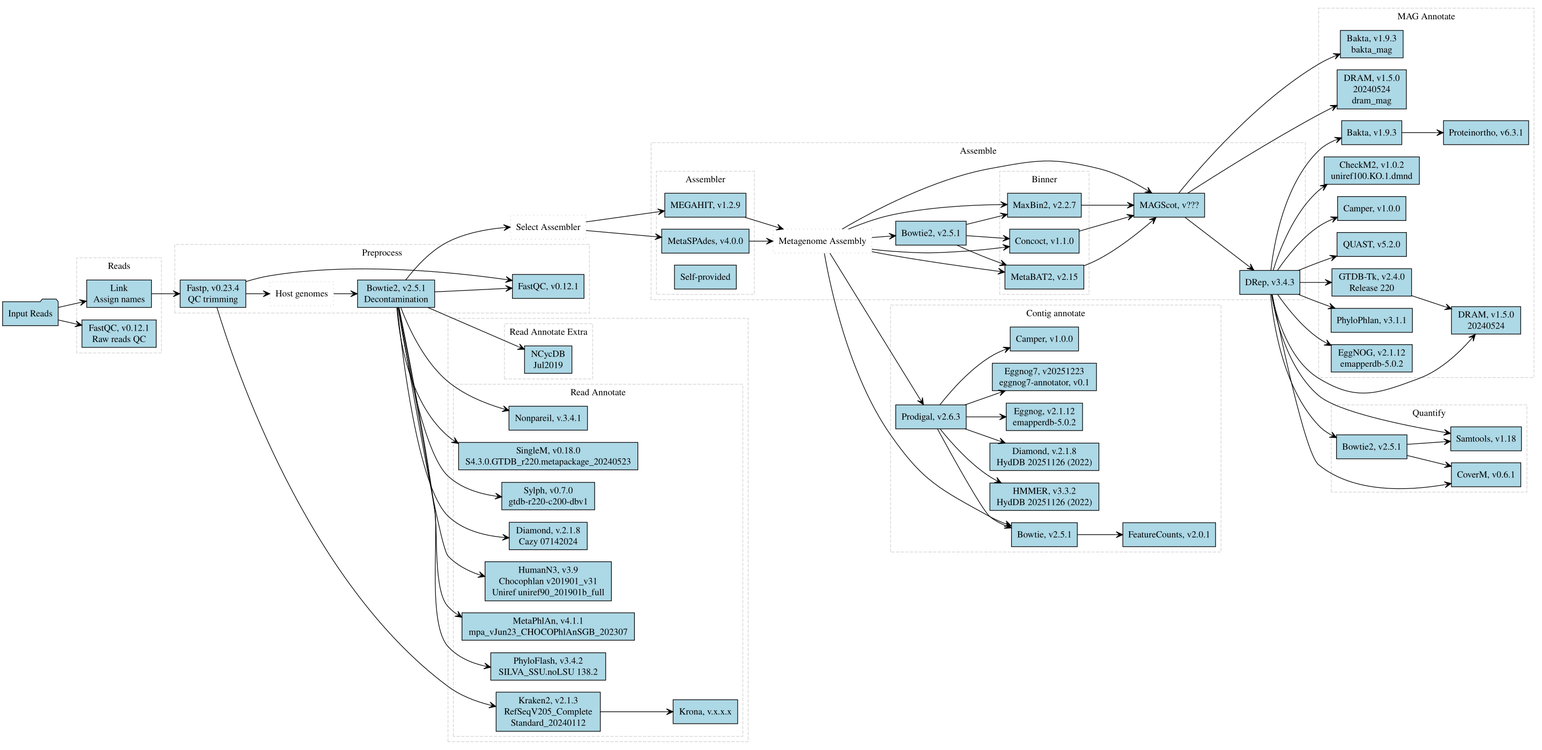
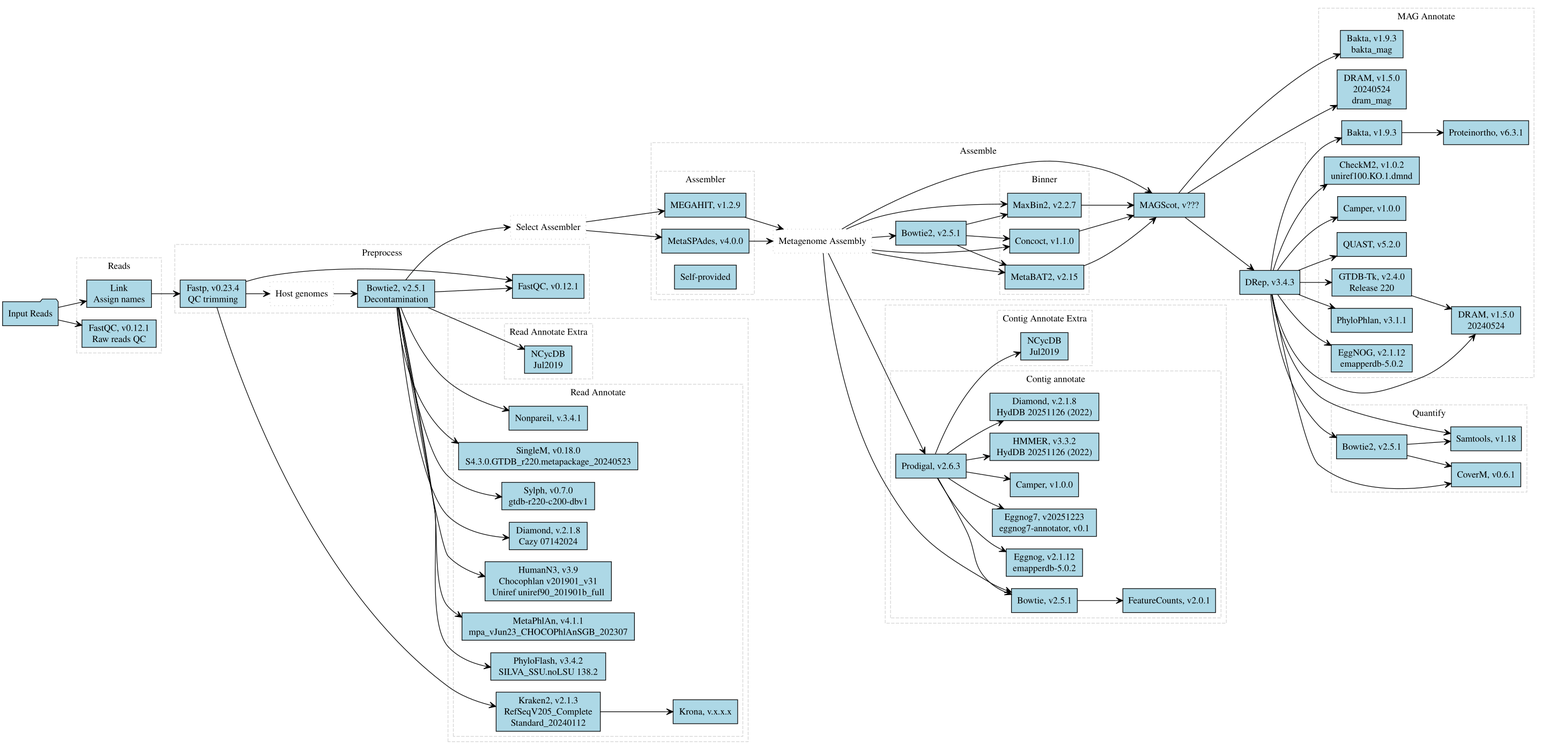
NCyc for contig annotate

Changed region(s): [[0.557, 0.3996, 0.8046, 0.8299], [0.557, 0.2766, 0.588, 0.3074], [0.5261, 0.3688, 0.557, 0.3996]]

diff --git a/pipeline_diagram.html b/pipeline_diagram.html
@@ -54,11 +54,20 @@
 <text text-anchor="middle" x="174.8994" y="-718.4" font-family="Times,serif" font-size="14.00" fill="#000000">Reads</text>
 </g>
 <g id="clust10" class="cluster">
-<title>cluster_contig_annotate</title>
-<polygon fill="none" stroke="#d3d3d3" stroke-dasharray="5,2" points="1333.7794,-293 1333.7794,-664 1830.2388,-664 1830.2388,-293 1333.7794,-293"/>
-<text text-anchor="middle" x="1582.0091" y="-647.4" font-family="Times,serif" font-size="14.00" fill="#000000">Contig annotate</text>
+<title>cluster_contig_annot_all</title>
+<polygon fill="none" stroke="#d3d3d3" stroke-dasharray="5,2" points="1325.7794,-186 1325.7794,-664 1838.2388,-664 1838.2388,-186 1325.7794,-186"/>
 </g>
 <g id="clust11" class="cluster">
+<title>cluster_contig_annotate</title>
+<polygon fill="none" stroke="#d3d3d3" stroke-dasharray="5,2" points="1333.7794,-194 1333.7794,-565 1830.2388,-565 1830.2388,-194 1333.7794,-194"/>
+<text text-anchor="middle" x="1582.0091" y="-548.4" font-family="Times,serif" font-size="14.00" fill="#000000">Contig annotate</text>
+</g>
+<g id="clust12" class="cluster">
+<title>cluster_contig_annot_extra</title>
+<polygon fill="none" stroke="#d3d3d3" stroke-dasharray="5,2" points="1494.1034,-573 1494.1034,-656 1636.7044,-656 1636.7044,-573 1494.1034,-573"/>
+<text text-anchor="middle" x="1565.4039" y="-639.4" font-family="Times,serif" font-size="14.00" fill="#000000">Contig Annotate Extra</text>
+</g>
+<g id="clust13" class="cluster">
 <title>cluster_annotate</title>
 <polygon fill="none" stroke="#d3d3d3" stroke-dasharray="5,2" points="1976.8966,-555 1976.8966,-1110 2300.417,-1110 2300.417,-555 1976.8966,-555"/>
 <text text-anchor="middle" x="2138.6568" y="-1093.4" font-family="Times,serif" font-size="14.00" fill="#000000">MAG Annotate</text>
@@ -232,7 +241,7 @@
 <polygon fill="#000000" stroke="#000000" points="783.9478,-597.4244 776.5608,-605.5289 779.3598,-599.412 774.7719,-601.3997 774.7719,-601.3997 774.7719,-601.3997 779.3598,-599.412 772.983,-597.2705 783.9478,-597.4244 783.9478,-597.4244"/>
 </g>
 <!-- ass_assembler_rep -->
-<g id="node49" class="node">
+<g id="node50" class="node">
 <title>ass_assembler_rep</title>
 <polygon fill="none" stroke="#c0c0c0" stroke-dasharray="1,5" points="876.1262,-799 762.9758,-799 762.9758,-763 876.1262,-763 876.1262,-799"/>
 <text text-anchor="middle" x="819.551" y="-776.8" font-family="Times,serif" font-size="14.00" fill="#000000">Select Assembler</text>
@@ -264,7 +273,7 @@
 <polygon fill="#000000" stroke="#000000" points="740.9677,-60.8794 732.2897,-67.5833 736.105,-62.0432 731.2423,-63.2069 731.2423,-63.2069 731.2423,-63.2069 736.105,-62.0432 730.1949,-58.8305 740.9677,-60.8794 740.9677,-60.8794"/>
 </g>
 <!-- pre_host -->
-<g id="node48" class="node">
+<g id="node49" class="node">
 <title>pre_host</title>
 <polygon fill="none" stroke="#c0c0c0" stroke-dasharray="1,5" points="496.9293,-699 401.5161,-699 401.5161,-663 496.9293,-663 496.9293,-699"/>
 <text text-anchor="middle" x="449.2227" y="-676.8" font-family="Times,serif" font-size="14.00" fill="#000000">Host genomes</text>
@@ -448,7 +457,7 @@
 <polygon fill="#000000" stroke="#000000" points="2001.5807,-659.147 1993.6347,-666.7043 1996.8627,-660.8026 1992.1447,-662.4582 1992.1447,-662.4582 1992.1447,-662.4582 1996.8627,-660.8026 1990.6547,-658.212 2001.5807,-659.147 2001.5807,-659.147"/>
 </g>
 <!-- quantify_bowtie2 -->
-<g id="node45" class="node">
+<g id="node46" class="node">
 <title>quantify_bowtie2</title>
 <polygon fill="#add8e6" stroke="#000000" points="2109.6016,-469 2003.7218,-469 2003.7218,-433 2109.6016,-433 2109.6016,-469"/>
 <text text-anchor="middle" x="2056.6617" y="-446.8" font-family="Times,serif" font-size="14.00" fill="#000000">Bowtie2, v2.5.1</text>
@@ -460,7 +469,7 @@
 <polygon fill="#000000" stroke="#000000" points="2003.7342,-464.7502 1996.8782,-473.3086 1999.2821,-467.0259 1994.83,-469.3017 1994.83,-469.3017 1994.83,-469.3017 1999.2821,-467.0259 1992.7818,-465.2948 2003.7342,-464.7502 2003.7342,-464.7502"/>
 </g>
 <!-- quantify_coverm -->
-<g id="node46" class="node">
+<g id="node47" class="node">
 <title>quantify_coverm</title>
 <polygon fill="#add8e6" stroke="#000000" points="2280.5789,-427 2176.2649,-427 2176.2649,-391 2280.5789,-391 2280.5789,-427"/>
 <text text-anchor="middle" x="2228.4219" y="-404.8" font-family="Times,serif" font-size="14.00" fill="#000000">CoverM, v0.6.1</text>
@@ -472,7 +481,7 @@
 <polygon fill="#000000" stroke="#000000" points="2176.1074,-395.894 2165.4692,-398.5544 2171.1863,-395.0096 2166.2651,-394.1253 2166.2651,-394.1253 2166.2651,-394.1253 2171.1863,-395.0096 2167.061,-389.6962 2176.1074,-395.894 2176.1074,-395.894"/>
 </g>
 <!-- quantify_samtools -->
-<g id="node47" class="node">
+<g id="node48" class="node">
 <title>quantify_samtools</title>
 <polygon fill="#add8e6" stroke="#000000" points="2281.5362,-481 2175.3076,-481 2175.3076,-445 2281.5362,-445 2281.5362,-481"/>
 <text text-anchor="middle" x="2228.4219" y="-458.8" font-family="Times,serif" font-size="14.00" fill="#000000">Samtools, v1.18</text>
@@ -529,7 +538,7 @@
 <text text-anchor="middle" x="1055.6559" y="-809.8" font-family="Times,serif" font-size="14.00" fill="#000000">MEGAHIT, v1.2.9</text>
 </g>
 <!-- ass_assembly -->
-<g id="node50" class="node">
+<g id="node51" class="node">
 <title>ass_assembly</title>
 <polygon fill="none" stroke="#c0c0c0" stroke-dasharray="1,5" points="1305.5679,-778 1157.4151,-778 1157.4151,-742 1305.5679,-742 1305.5679,-778"/>
 <text text-anchor="middle" x="1231.4915" y="-755.8" font-family="Times,serif" font-size="14.00" fill="#000000">Metagenome Assembly</text>
@@ -585,96 +594,109 @@
 <!-- contig_annotate_prodigal -->
 <g id="node37" class="node">
 <title>contig_annotate_prodigal</title>
-<polygon fill="#add8e6" stroke="#000000" points="1447.4388,-514 1341.559,-514 1341.559,-478 1447.4388,-478 1447.4388,-514"/>
-<text text-anchor="middle" x="1394.4989" y="-491.8" font-family="Times,serif" font-size="14.00" fill="#000000">Prodigal, v2.6.3</text>
+<polygon fill="#add8e6" stroke="#000000" points="1447.4388,-440 1341.559,-440 1341.559,-404 1447.4388,-404 1447.4388,-440"/>
+<text text-anchor="middle" x="1394.4989" y="-417.8" font-family="Times,serif" font-size="14.00" fill="#000000">Prodigal, v2.6.3</text>
 </g>
 <!-- contig_annotate_eggnog -->
 <g id="node38" class="node">
 <title>contig_annotate_eggnog</title>
-<polygon fill="#add8e6" stroke="#000000" points="1622.2601,-516.6019 1507.5477,-516.6019 1507.5477,-475.3981 1622.2601,-475.3981 1622.2601,-516.6019"/>
-<text text-anchor="middle" x="1564.9039" y="-500.2" font-family="Times,serif" font-size="14.00" fill="#000000">Eggnog, v2.1.12 </text>
-<text text-anchor="middle" x="1564.9039" y="-483.4" font-family="Times,serif" font-size="14.00" fill="#000000"> emapperdb&#45;5.0.2</text>
+<polygon fill="#add8e6" stroke="#000000" points="1622.2601,-297.6019 1507.5477,-297.6019 1507.5477,-256.3981 1622.2601,-256.3981 1622.2601,-297.6019"/>
+<text text-anchor="middle" x="1564.9039" y="-281.2" font-family="Times,serif" font-size="14.00" fill="#000000">Eggnog, v2.1.12 </text>
+<text text-anchor="middle" x="1564.9039" y="-264.4" font-family="Times,serif" font-size="14.00" fill="#000000"> emapperdb&#45;5.0.2</text>
 </g>
 <!-- contig_annotate_prodigal&#45;&gt;contig_annotate_eggnog -->
 <g id="edge51" class="edge">
 <title>contig_annotate_prodigal&#45;&gt;contig_annotate_eggnog</title>
-<path fill="none" stroke="#000000" d="M1447.482,-496C1463.2592,-496 1480.7648,-496 1497.3392,-496"/>
-<polygon fill="#000000" stroke="#000000" points="1507.515,-496 1497.5151,-500.5001 1502.515,-496 1497.515,-496.0001 1497.515,-496.0001 1497.515,-496.0001 1502.515,-496 1497.515,-491.5001 1507.515,-496 1507.515,-496"/>
+<path fill="none" stroke="#000000" d="M1404.1087,-403.871C1418.2709,-378.7744 1447.0253,-333.5462 1483.2184,-307 1487.9009,-303.5656 1493.0188,-300.4861 1498.3358,-297.7325"/>
+<polygon fill="#000000" stroke="#000000" points="1507.4302,-293.4009 1500.337,-301.7638 1502.916,-295.551 1498.4019,-297.7011 1498.4019,-297.7011 1498.4019,-297.7011 1502.916,-295.551 1496.4668,-293.6384 1507.4302,-293.4009 1507.4302,-293.4009"/>
 </g>
 <!-- contig_annotate_eggnog7 -->
 <g id="node39" class="node">
 <title>contig_annotate_eggnog7</title>
-<polygon fill="#add8e6" stroke="#000000" points="1643.1503,-576.6019 1486.6575,-576.6019 1486.6575,-535.3981 1643.1503,-535.3981 1643.1503,-576.6019"/>
-<text text-anchor="middle" x="1564.9039" y="-560.2" font-family="Times,serif" font-size="14.00" fill="#000000">Eggnog7, v20251223 </text>
-<text text-anchor="middle" x="1564.9039" y="-543.4" font-family="Times,serif" font-size="14.00" fill="#000000"> eggnog7&#45;annotator, v0.1</text>
+<polygon fill="#add8e6" stroke="#000000" points="1643.1503,-357.6019 1486.6575,-357.6019 1486.6575,-316.3981 1643.1503,-316.3981 1643.1503,-357.6019"/>
+<text text-anchor="middle" x="1564.9039" y="-341.2" font-family="Times,serif" font-size="14.00" fill="#000000">Eggnog7, v20251223 </text>
+<text text-anchor="middle" x="1564.9039" y="-324.4" font-family="Times,serif" font-size="14.00" fill="#000000"> eggnog7&#45;annotator, v0.1</text>
 </g>
 <!-- contig_annotate_prodigal&#45;&gt;contig_annotate_eggnog7 -->
 <g id="edge52" class="edge">
 <title>contig_annotate_prodigal&#45;&gt;contig_annotate_eggnog7</title>
-<path fill="none" stroke="#000000" d="M1445.626,-514.002C1461.6065,-519.6287 1479.5017,-525.9297 1496.4726,-531.9052"/>
-<polygon fill="#000000" stroke="#000000" points="1506.3366,-535.3783 1495.4096,-536.3016 1501.6204,-533.7177 1496.9042,-532.0571 1496.9042,-532.0571 1496.9042,-532.0571 1501.6204,-533.7177 1498.3987,-527.8125 1506.3366,-535.3783 1506.3366,-535.3783"/>
+<path fill="none" stroke="#000000" d="M1420.4837,-403.9367C1437.7563,-392.4265 1461.2258,-377.7176 1483.2184,-367 1486.9616,-365.1758 1490.8457,-363.3967 1494.7969,-361.6741"/>
+<polygon fill="#000000" stroke="#000000" points="1504.1036,-357.7625 1496.6284,-365.7857 1499.4942,-359.6998 1494.8848,-361.6372 1494.8848,-361.6372 1494.8848,-361.6372 1499.4942,-359.6998 1493.1411,-357.4887 1504.1036,-357.7625 1504.1036,-357.7625"/>
 </g>
 <!-- contig_annotate_bowtie -->
 <g id="node40" class="node">
 <title>contig_annotate_bowtie</title>
-<polygon fill="#add8e6" stroke="#000000" points="1614.3439,-337 1515.4639,-337 1515.4639,-301 1614.3439,-301 1614.3439,-337"/>
-<text text-anchor="middle" x="1564.9039" y="-314.8" font-family="Times,serif" font-size="14.00" fill="#000000">Bowtie, v2.5.1</text>
+<polygon fill="#add8e6" stroke="#000000" points="1614.3439,-238 1515.4639,-238 1515.4639,-202 1614.3439,-202 1614.3439,-238"/>
+<text text-anchor="middle" x="1564.9039" y="-215.8" font-family="Times,serif" font-size="14.00" fill="#000000">Bowtie, v2.5.1</text>
 </g>
 <!-- contig_annotate_prodigal&#45;&gt;contig_annotate_bowtie -->
 <g id="edge53" class="edge">
 <title>contig_annotate_prodigal&#45;&gt;contig_annotate_bowtie</title>
-<path fill="none" stroke="#000000" d="M1404.3012,-477.8366C1424.8604,-439.9872 1471.5538,-355.3933 1483.2184,-346 1489.9074,-340.6134 1497.7126,-336.2845 1505.7951,-332.8098"/>
-<polygon fill="#000000" stroke="#000000" points="1515.3603,-329.111 1507.6564,-336.9148 1510.6968,-330.9144 1506.0334,-332.7177 1506.0334,-332.7177 1506.0334,-332.7177 1510.6968,-330.9144 1504.4103,-328.5206 1515.3603,-329.111 1515.3603,-329.111"/>
+<path fill="none" stroke="#000000" d="M1405.0171,-403.8123C1415.9651,-384.6638 1433.4085,-353.5343 1447.2184,-326 1464.5169,-291.5101 1454.4975,-272.7662 1483.2184,-247 1489.8422,-241.0576 1497.8072,-236.4188 1506.1303,-232.7986"/>
+<polygon fill="#000000" stroke="#000000" points="1515.6271,-229.1289 1507.9213,-236.9309 1510.9632,-230.9312 1506.2993,-232.7334 1506.2993,-232.7334 1506.2993,-232.7334 1510.9632,-230.9312 1504.6773,-228.5358 1515.6271,-229.1289 1515.6271,-229.1289"/>
 </g>
 <!-- contig_annotate_camper -->
 <g id="node41" class="node">
 <title>contig_annotate_camper</title>
-<polygon fill="#add8e6" stroke="#000000" points="1616.2214,-631 1513.5864,-631 1513.5864,-595 1616.2214,-595 1616.2214,-631"/>
-<text text-anchor="middle" x="1564.9039" y="-608.8" font-family="Times,serif" font-size="14.00" fill="#000000">Camper, v1.0.0</text>
+<polygon fill="#add8e6" stroke="#000000" points="1616.2214,-412 1513.5864,-412 1513.5864,-376 1616.2214,-376 1616.2214,-412"/>
+<text text-anchor="middle" x="1564.9039" y="-389.8" font-family="Times,serif" font-size="14.00" fill="#000000">Camper, v1.0.0</text>
 </g>
 <!-- contig_annotate_prodigal&#45;&gt;contig_annotate_camper -->
 <g id="edge54" class="edge">
 <title>contig_annotate_prodigal&#45;&gt;contig_annotate_camper</title>
-<path fill="none" stroke="#000000" d="M1407.927,-514.0591C1423.8231,-534.2561 1452.0949,-566.6646 1483.2184,-586 1489.5858,-589.9557 1496.596,-593.3981 1503.7524,-596.3765"/>
-<polygon fill="#000000" stroke="#000000" points="1513.5549,-600.1549 1502.6056,-600.7572 1508.8895,-598.3566 1504.2241,-596.5583 1504.2241,-596.5583 1504.2241,-596.5583 1508.8895,-598.3566 1505.8426,-592.3594 1513.5549,-600.1549 1513.5549,-600.1549"/>
+<path fill="none" stroke="#000000" d="M1447.482,-413.2941C1465.288,-410.3683 1485.2956,-407.0808 1503.6814,-404.0597"/>
+<polygon fill="#000000" stroke="#000000" points="1513.7046,-402.4128 1504.5666,-408.4747 1508.7708,-403.2235 1503.8369,-404.0343 1503.8369,-404.0343 1503.8369,-404.0343 1508.7708,-403.2235 1503.1072,-399.5938 1513.7046,-402.4128 1513.7046,-402.4128"/>
 </g>
 <!-- contig_annotate_hmmer -->
 <g id="node42" class="node">
 <title>contig_annotate_hmmer</title>
-<polygon fill="#add8e6" stroke="#000000" points="1646.7753,-396.6019 1483.0325,-396.6019 1483.0325,-355.3981 1646.7753,-355.3981 1646.7753,-396.6019"/>
-<text text-anchor="middle" x="1564.9039" y="-380.2" font-family="Times,serif" font-size="14.00" fill="#000000">HMMER, v3.3.2 </text>
-<text text-anchor="middle" x="1564.9039" y="-363.4" font-family="Times,serif" font-size="14.00" fill="#000000"> HydDB 20251126 (2022)</text>
+<polygon fill="#add8e6" stroke="#000000" points="1646.7753,-471.6019 1483.0325,-471.6019 1483.0325,-430.3981 1646.7753,-430.3981 1646.7753,-471.6019"/>
+<text text-anchor="middle" x="1564.9039" y="-455.2" font-family="Times,serif" font-size="14.00" fill="#000000">HMMER, v3.3.2 </text>
+<text text-anchor="middle" x="1564.9039" y="-438.4" font-family="Times,serif" font-size="14.00" fill="#000000"> HydDB 20251126 (2022)</text>
 </g>
 <!-- contig_annotate_prodigal&#45;&gt;contig_annotate_hmmer -->
 <g id="edge55" class="edge">
 <title>contig_annotate_prodigal&#45;&gt;contig_annotate_hmmer</title>
-<path fill="none" stroke="#000000" d="M1408.3321,-477.7636C1424.3859,-457.7105 1452.6,-425.7235 1483.2184,-406 1485.8022,-404.3356 1488.4912,-402.7463 1491.2523,-401.2306"/>
-<polygon fill="#000000" stroke="#000000" points="1500.2757,-396.6389 1493.4041,-405.1848 1495.8194,-398.9066 1491.3632,-401.1742 1491.3632,-401.1742 1491.3632,-401.1742 1495.8194,-398.9066 1489.3223,-397.1636 1500.2757,-396.6389 1500.2757,-396.6389"/>
+<path fill="none" stroke="#000000" d="M1447.482,-431.0168C1455.7164,-432.4182 1464.4215,-433.8996 1473.2194,-435.3969"/>
+<polygon fill="#000000" stroke="#000000" points="1483.1718,-437.0906 1472.5585,-439.849 1478.2426,-436.2517 1473.3135,-435.4128 1473.3135,-435.4128 1473.3135,-435.4128 1478.2426,-436.2517 1474.0685,-430.9766 1483.1718,-437.0906 1483.1718,-437.0906"/>
 </g>
 <!-- contig_annotate_diamond -->
 <g id="node43" class="node">
 <title>contig_annotate_diamond</title>
-<polygon fill="#add8e6" stroke="#000000" points="1646.7753,-456.6019 1483.0325,-456.6019 1483.0325,-415.3981 1646.7753,-415.3981 1646.7753,-456.6019"/>
-<text text-anchor="middle" x="1564.9039" y="-440.2" font-family="Times,serif" font-size="14.00" fill="#000000">Diamond, v.2.1.8 </text>
-<text text-anchor="middle" x="1564.9039" y="-423.4" font-family="Times,serif" font-size="14.00" fill="#000000"> HydDB 20251126 (2022)</text>
+<polygon fill="#add8e6" stroke="#000000" points="1646.7753,-531.6019 1483.0325,-531.6019 1483.0325,-490.3981 1646.7753,-490.3981 1646.7753,-531.6019"/>
+<text text-anchor="middle" x="1564.9039" y="-515.2" font-family="Times,serif" font-size="14.00" fill="#000000">Diamond, v.2.1.8 </text>
+<text text-anchor="middle" x="1564.9039" y="-498.4" font-family="Times,serif" font-size="14.00" fill="#000000"> HydDB 20251126 (2022)</text>
 </g>
 <!-- contig_annotate_prodigal&#45;&gt;contig_annotate_diamond -->
 <g id="edge56" class="edge">
 <title>contig_annotate_prodigal&#45;&gt;contig_annotate_diamond</title>
-<path fill="none" stroke="#000000" d="M1445.626,-477.998C1461.6065,-472.3713 1479.5017,-466.0703 1496.4726,-460.0948"/>
-<polygon fill="#000000" stroke="#000000" points="1506.3366,-456.6217 1498.3987,-464.1875 1501.6204,-458.2823 1496.9042,-459.9429 1496.9042,-459.9429 1496.9042,-459.9429 1501.6204,-458.2823 1495.4096,-455.6984 1506.3366,-456.6217 1506.3366,-456.6217"/>
+<path fill="none" stroke="#000000" d="M1418.4127,-440.1478C1435.7545,-452.7382 1460.1229,-469.2852 1483.2184,-481 1486.7552,-482.794 1490.4255,-484.5355 1494.1649,-486.2164"/>
+<polygon fill="#000000" stroke="#000000" points="1503.565,-490.2653 1492.6006,-490.4422 1498.9729,-488.2873 1494.3808,-486.3093 1494.3808,-486.3093 1494.3808,-486.3093 1498.9729,-488.2873 1496.1609,-482.1764 1503.565,-490.2653 1503.565,-490.2653"/>
+</g>
+<!-- contig_annotate_ncyc -->
+<g id="node45" class="node">
+<title>contig_annotate_ncyc</title>
+<polygon fill="#add8e6" stroke="#000000" points="1600.506,-622.6019 1529.3018,-622.6019 1529.3018,-581.3981 1600.506,-581.3981 1600.506,-622.6019"/>
+<text text-anchor="middle" x="1564.9039" y="-606.2" font-family="Times,serif" font-size="14.00" fill="#000000">NCycDB </text>
+<text text-anchor="middle" x="1564.9039" y="-589.4" font-family="Times,serif" font-size="14.00" fill="#000000"> Jul2019</text>
+</g>
+<!-- contig_annotate_prodigal&#45;&gt;contig_annotate_ncyc -->
+<g id="edge59" class="edge">
+<title>contig_annotate_prodigal&#45;&gt;contig_annotate_ncyc</title>
+<path fill="none" stroke="#000000" d="M1401.1145,-440.4C1413.0105,-471.0709 1440.7956,-532.8406 1483.2184,-569 1493.7002,-577.9342 1506.9146,-584.6662 1519.6425,-589.6398"/>
+<polygon fill="#000000" stroke="#000000" points="1529.2275,-593.1078 1518.293,-593.937 1524.5257,-591.4066 1519.824,-589.7055 1519.824,-589.7055 1519.824,-589.7055 1524.5257,-591.4066 1521.3551,-585.4739 1529.2275,-593.1078 1529.2275,-593.1078"/>
 </g>
 <!-- contig_annotate_feature -->
 <g id="node44" class="node">
 <title>contig_annotate_feature</title>
-<polygon fill="#add8e6" stroke="#000000" points="1822.0639,-337 1682.7643,-337 1682.7643,-301 1822.0639,-301 1822.0639,-337"/>
-<text text-anchor="middle" x="1752.4141" y="-314.8" font-family="Times,serif" font-size="14.00" fill="#000000">FeatureCounts, v2.0.1</text>
+<polygon fill="#add8e6" stroke="#000000" points="1822.0639,-238 1682.7643,-238 1682.7643,-202 1822.0639,-202 1822.0639,-238"/>
+<text text-anchor="middle" x="1752.4141" y="-215.8" font-family="Times,serif" font-size="14.00" fill="#000000">FeatureCounts, v2.0.1</text>
 </g>
 <!-- contig_annotate_bowtie&#45;&gt;contig_annotate_feature -->
 <g id="edge58" class="edge">
 <title>contig_annotate_bowtie&#45;&gt;contig_annotate_feature</title>
-<path fill="none" stroke="#000000" d="M1614.17,-319C1632.0034,-319 1652.6326,-319 1672.425,-319"/>
-<polygon fill="#000000" stroke="#000000" points="1682.6797,-319 1672.6797,-323.5001 1677.6797,-319 1672.6797,-319.0001 1672.6797,-319.0001 1672.6797,-319.0001 1677.6797,-319 1672.6796,-314.5001 1682.6797,-319 1682.6797,-319"/>
+<path fill="none" stroke="#000000" d="M1614.17,-220C1632.0034,-220 1652.6326,-220 1672.425,-220"/>
+<polygon fill="#000000" stroke="#000000" points="1682.6797,-220 1672.6797,-224.5001 1677.6797,-220 1672.6797,-220.0001 1672.6797,-220.0001 1672.6797,-220.0001 1677.6797,-220 1672.6796,-215.5001 1682.6797,-220 1682.6797,-220"/>
 </g>
 <!-- quantify_bowtie2&#45;&gt;quantify_coverm -->
 <g id="edge35" class="edge">
@@ -695,13 +717,13 @@
 <polygon fill="#000000" stroke="#000000" points="532.7533,-681 522.7533,-685.5001 527.7533,-681 522.7533,-681.0001 522.7533,-681.0001 522.7533,-681.0001 527.7533,-681 522.7532,-676.5001 532.7533,-681 532.7533,-681"/>
 </g>
 <!-- ass_assembler_rep&#45;&gt;ass_megahit -->
-<g id="edge59" class="edge">
+<g id="edge60" class="edge">
 <title>ass_assembler_rep&#45;&gt;ass_megahit</title>
 <path fill="none" stroke="#000000" d="M876.4045,-788.9463C908.8186,-793.4768 949.7412,-799.1965 984.2992,-804.0266"/>
 <polygon fill="#000000" stroke="#000000" points="994.3328,-805.429 983.8061,-808.5013 989.3809,-804.7368 984.4291,-804.0447 984.4291,-804.0447 984.4291,-804.0447 989.3809,-804.7368 985.052,-799.588 994.3328,-805.429 994.3328,-805.429"/>
 </g>
 <!-- ass_assembler_rep&#45;&gt;ass_metaspades -->
-<g id="edge60" class="edge">
+<g id="edge61" class="edge">
 <title>ass_assembler_rep&#45;&gt;ass_metaspades</title>
 <path fill="none" stroke="#000000" d="M876.4045,-775.9433C907.4429,-773.1826 946.2829,-769.728 979.8659,-766.741"/>
 <polygon fill="#000000" stroke="#000000" points="990.105,-765.8303 980.543,-771.1987 985.1246,-766.2733 980.1443,-766.7164 980.1443,-766.7164 980.1443,-766.7164 985.1246,-766.2733 979.7456,-762.2341 990.105,-765.8303 990.105,-765.8303"/>
@@ -715,38 +737,38 @@
 <!-- ass_assembly&#45;&gt;ass_concoct -->
 <g id="edge20" class="edge">
 <title>ass_assembly&#45;&gt;ass_concoct</title>
-<path fill="none" stroke="#000000" d="M1305.6554,-747.8297C1315.0986,-746.6617 1324.65,-745.6658 1333.7794,-745 1384.0632,-741.3327 1396.9023,-741.8063 1447.2184,-745 1465.1747,-746.1397 1484.5797,-748.2482 1502.3539,-750.5316"/>
+<path fill="none" stroke="#000000" d="M1305.7335,-747.0681C1312.495,-746.2298 1319.2525,-745.5159 1325.7794,-745 1379.5845,-740.7469 1393.3539,-741.5811 1447.2184,-745 1465.1747,-746.1397 1484.5797,-748.2482 1502.3539,-750.5316"/>
 <polygon fill="#000000" stroke="#000000" points="1512.6073,-751.8903 1502.1028,-755.0376 1507.6507,-751.2334 1502.694,-750.5766 1502.694,-750.5766 1502.694,-750.5766 1507.6507,-751.2334 1503.2851,-746.1156 1512.6073,-751.8903 1512.6073,-751.8903"/>
 </g>
 <!-- ass_assembly&#45;&gt;ass_magscot -->
 <g id="edge26" class="edge">
 <title>ass_assembly&#45;&gt;ass_magscot</title>
-<path fill="none" stroke="#000000" d="M1261.0648,-778.1211C1306.7079,-804.8286 1397.9779,-853.2953 1483.2184,-869 1554.6259,-882.1561 1576.0552,-886.2349 1646.5894,-869 1671.8809,-862.8201 1697.8581,-849.4419 1717.7456,-837.4276"/>
+<path fill="none" stroke="#000000" d="M1260.6573,-778.0815C1306.1311,-804.9803 1397.6127,-853.9805 1483.2184,-869 1554.7353,-881.5477 1576.0552,-886.2349 1646.5894,-869 1671.8809,-862.8201 1697.8581,-849.4419 1717.7456,-837.4276"/>
 <polygon fill="#000000" stroke="#000000" points="1726.4303,-832.0343 1720.3091,-841.1328 1722.1827,-834.6722 1717.9351,-837.31 1717.9351,-837.31 1717.9351,-837.31 1722.1827,-834.6722 1715.561,-833.4872 1726.4303,-832.0343 1726.4303,-832.0343"/>
 </g>
 <!-- ass_assembly&#45;&gt;ass_maxbin2 -->
 <g id="edge27" class="edge">
 <title>ass_assembly&#45;&gt;ass_maxbin2</title>
-<path fill="none" stroke="#000000" d="M1270.4798,-778.0231C1289.2172,-785.8589 1312.2386,-794.3065 1333.7794,-799 1388.5683,-810.9379 1452.2499,-814.3208 1498.8777,-814.9268"/>
-<polygon fill="#000000" stroke="#000000" points="1509.1532,-815.0191 1499.1132,-819.429 1504.1534,-814.9741 1499.1537,-814.9292 1499.1537,-814.9292 1499.1537,-814.9292 1504.1534,-814.9741 1499.1941,-810.4293 1509.1532,-815.0191 1509.1532,-815.0191"/>
+<path fill="none" stroke="#000000" d="M1267.2837,-778.0773C1284.5235,-785.925 1305.7597,-794.3669 1325.7794,-799 1383.2872,-812.3088 1450.5157,-815.472 1499.0175,-815.648"/>
+<polygon fill="#000000" stroke="#000000" points="1509.0728,-815.6428 1499.0752,-820.1481 1504.0728,-815.6454 1499.0728,-815.6481 1499.0728,-815.6481 1499.0728,-815.6481 1504.0728,-815.6454 1499.0705,-811.1481 1509.0728,-815.6428 1509.0728,-815.6428"/>
 </g>
 <!-- ass_assembly&#45;&gt;ass_metabat2 -->
 <g id="edge31" class="edge">
 <title>ass_assembly&#45;&gt;ass_metabat2</title>
-<path fill="none" stroke="#000000" d="M1305.6947,-744.2152C1315.1312,-742.3701 1324.6704,-740.5838 1333.7794,-739 1387.7973,-729.6075 1449.2601,-720.9273 1495.2181,-714.829"/>
-<polygon fill="#000000" stroke="#000000" points="1505.3696,-713.4904 1496.0437,-719.2591 1500.4125,-714.1441 1495.4554,-714.7978 1495.4554,-714.7978 1495.4554,-714.7978 1500.4125,-714.1441 1494.8671,-710.3364 1505.3696,-713.4904 1505.3696,-713.4904"/>
+<path fill="none" stroke="#000000" d="M1305.7493,-742.8642C1312.5075,-741.4854 1319.2599,-740.1738 1325.7794,-739 1382.7683,-728.7392 1447.8995,-719.9412 1495.7821,-714.0162"/>
+<polygon fill="#000000" stroke="#000000" points="1505.7288,-712.796 1496.3511,-718.4802 1500.766,-713.4048 1495.8032,-714.0137 1495.8032,-714.0137 1495.8032,-714.0137 1500.766,-713.4048 1495.2552,-709.5472 1505.7288,-712.796 1505.7288,-712.796"/>
 </g>
 <!-- ass_assembly&#45;&gt;contig_annotate_prodigal -->
 <g id="edge50" class="edge">
 <title>ass_assembly&#45;&gt;contig_annotate_prodigal</title>
-<path fill="none" stroke="#000000" d="M1242.6957,-741.8542C1270.846,-696.2631 1344.6553,-576.7247 1377.8751,-522.9232"/>
-<polygon fill="#000000" stroke="#000000" points="1383.2163,-514.2728 1381.7915,-525.1457 1380.5894,-518.5271 1377.9626,-522.7815 1377.9626,-522.7815 1377.9626,-522.7815 1380.5894,-518.5271 1374.1336,-520.4173 1383.2163,-514.2728 1383.2163,-514.2728"/>
+<path fill="none" stroke="#000000" d="M1240.2555,-741.8277C1267.2322,-685.8908 1349.1374,-516.0582 1381.317,-449.3329"/>
+<polygon fill="#000000" stroke="#000000" points="1385.6916,-440.2622 1385.4009,-451.2242 1383.5196,-444.7658 1381.3476,-449.2694 1381.3476,-449.2694 1381.3476,-449.2694 1383.5196,-444.7658 1377.2943,-447.3147 1385.6916,-440.2622 1385.6916,-440.2622"/>
 </g>
 <!-- ass_assembly&#45;&gt;contig_annotate_bowtie -->
 <g id="edge57" class="edge">
 <title>ass_assembly&#45;&gt;contig_annotate_bowtie</title>
-<path fill="none" stroke="#000000" d="M1234.3793,-741.7337C1242.7227,-693.3946 1270.423,-559.6341 1333.7794,-469 1383.0638,-398.4964 1407.8906,-387.5383 1483.2184,-346 1490.2853,-342.1031 1498.008,-338.6483 1505.7947,-335.6228"/>
-<polygon fill="#000000" stroke="#000000" points="1515.2848,-332.1442 1507.4444,-339.8109 1510.5902,-333.865 1505.8957,-335.5858 1505.8957,-335.5858 1505.8957,-335.5858 1510.5902,-333.865 1504.3469,-331.3607 1515.2848,-332.1442 1515.2848,-332.1442"/>
+<path fill="none" stroke="#000000" d="M1232.6257,-741.9402C1236.8193,-686.3556 1255.0933,-514.3947 1325.7794,-395 1374.7048,-312.3609 1400.6932,-296.1173 1483.2184,-247 1490.2445,-242.8182 1498.0008,-239.1903 1505.8539,-236.0705"/>
+<polygon fill="#000000" stroke="#000000" points="1515.4383,-232.5141 1507.6284,-240.2119 1510.7506,-234.2535 1506.0629,-235.993 1506.0629,-235.993 1506.0629,-235.993 1510.7506,-234.2535 1504.4974,-231.7741 1515.4383,-232.5141 1515.4383,-232.5141"/>
 </g>
 </g>
 </svg>
